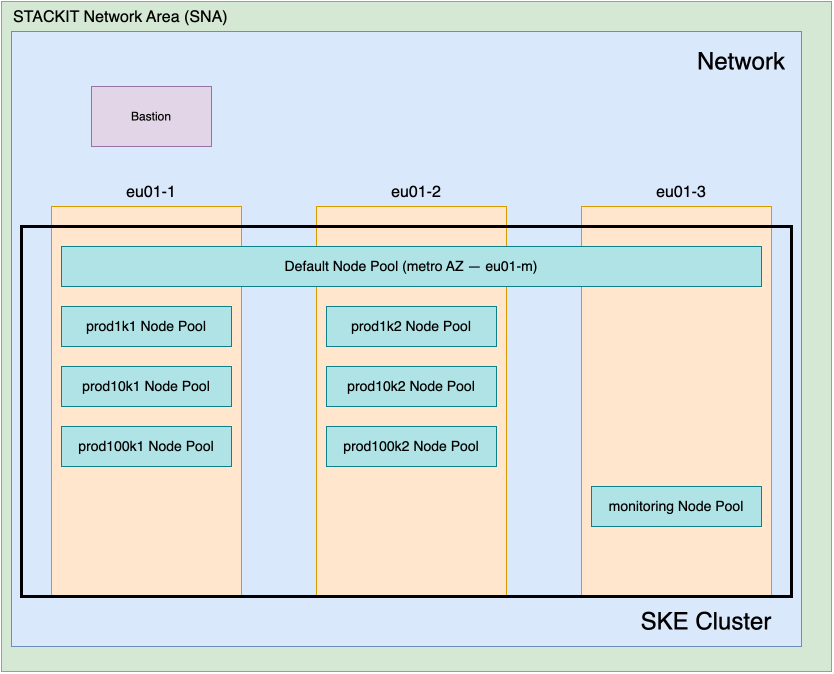
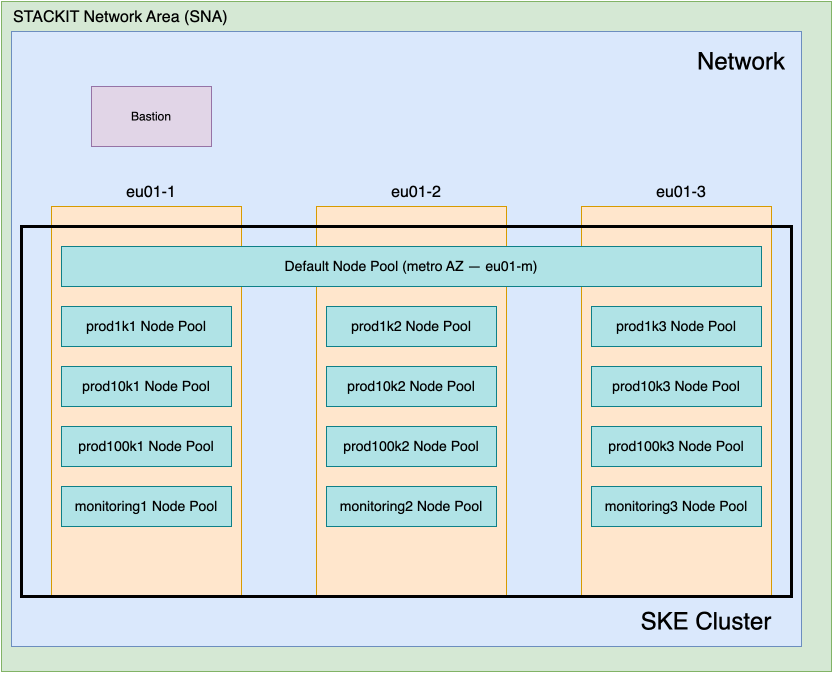
spread SKE broker and monitoring pools across all 3 discrete AZs

Changed region(s): [[0.6859, 0.4362, 0.9353, 0.7789], [0.3741, 0.7166, 0.6235, 0.7789], [0.0624, 0.7166, 0.2806, 0.7789]]

diff --git a/ske/README.md b/ske/README.md
@@ -37,14 +37,12 @@ Each SKE cluster lives in its own STACKIT project. The Terraform creates the pro
 
 STACKIT's `eu01` region has three discrete availability zones (`eu01-1`, `eu01-2`, `eu01-3`) plus a **metro** zone (`eu01-m`) that spans multiple physical zones. The reference architecture uses:
 * the metro zone for the system / default pool (STACKIT-managed system components benefit from cross-zone failover)
-* discrete zones for messaging pools (one pool per zone, enabling pod anti-affinity across zones for HA brokers)
-* one discrete zone (`eu01-3`) for the monitoring pool
+* the three discrete zones for messaging pools (one pool per zone per tier, enabling pod anti-affinity across zones for HA brokers)
+* the three discrete zones for monitoring pools (one pool per zone)
 
 #### Node Pools
 
-The cluster has the following node pools. Note: STACKIT does not expose a standalone node-pool resource — pools are defined inline on `stackit_ske_cluster.node_pools`. The reference architecture's `broker-node-pool` module is a config-factory: it produces node-pool config objects, which the top-level Terraform concatenates into the cluster's `node_pools` argument.
-
-All pools' nodes use a 50 GiB boot volume on the `storage_premium_perf2` performance class.
+The cluster has the following node pools. All pools' nodes use a 50 GiB boot volume on the `storage_premium_perf2` performance class.
 
 ##### Default (System)
 
@@ -52,18 +50,18 @@ The default node pool runs on the metro availability zone (`eu01-m`) so STACKIT 
 
 ##### Event Broker Services
 
-The cluster has 6 node pools for event broker services — two per tier, one in each of `eu01-1` and `eu01-2`. Locking each pool to a single AZ allows the cluster autoscaler to operate predictably and enables pod anti-affinity across zones for HA broker services.
+The cluster has a total of 12 node pools for event broker services. Instead of spanning multiple availability zones, there are 4 sets of 3 node pools with each locked to a single availability zone. These node pools are locked to one availability zone to allow the cluster autoscaler to work properly. We use pod anti-affinity against the node's zone label to ensure that each pod in a high-availability event broker service is in a separate availability zone.
 
 These node pools are engineered to support a 1:1 ratio of event broker service pod to worker node. We use labels and taints on each of these node pools to ensure that only event broker service pods are scheduled on the worker nodes for each scaling tier.
 
-The VM sizes, labels, and taints for each event broker service node pool are as follows (sized to meet Solace Cloud broker resource requirements on STACKIT):
+The VM sizes, labels, and taints for each event broker service node pool are as follows:
 
-| Name                 | VM size | AZ      | Labels                                          | Taints                                                            |
-|----------------------|---------|---------|-------------------------------------------------|-------------------------------------------------------------------|
-| prod1k1 / prod1k2    | `m2i.2` | -1 / -2 | nodeType:messaging<br>serviceClass:prod1k       | nodeType:messaging:NoExecute<br>serviceClass:prod1k:NoExecute     |
-| prod10k1 / prod10k2  | `m2i.4` | -1 / -2 | nodeType:messaging<br>serviceClass:prod10k      | nodeType:messaging:NoExecute<br>serviceClass:prod10k:NoExecute    |
-| prod100k1 / prod100k2| `m2i.8` | -1 / -2 | nodeType:messaging<br>serviceClass:prod100k     | nodeType:messaging:NoExecute<br>serviceClass:prod100k:NoExecute   |
-| monitoring           | `g3i.2` | -3      | nodeType:monitoring                             | nodeType:monitoring:NoExecute                                     |
+| Name       | VM size | Labels                                      | Taints                                                          |
+|------------|---------|---------------------------------------------|-----------------------------------------------------------------|
+| prod1k     | `m2i.2` | nodeType:messaging<br>serviceClass:prod1k   | nodeType:messaging:NoExecute<br>serviceClass:prod1k:NoExecute   |
+| prod10k    | `m2i.4` | nodeType:messaging<br>serviceClass:prod10k  | nodeType:messaging:NoExecute<br>serviceClass:prod10k:NoExecute  |
+| prod100k   | `m2i.8` | nodeType:messaging<br>serviceClass:prod100k | nodeType:messaging:NoExecute<br>serviceClass:prod100k:NoExecute |
+| monitoring | `g3i.2` | nodeType:monitoring                         | nodeType:monitoring:NoExecute                                   |
 
 ### Access <a name="ske-access"></a>
 
@@ -155,4 +153,4 @@ To use this Terraform module, the following is required:
 
 For Solace Cloud broker workloads, two STACKIT block-storage performance classes are recommended: `perf2` for the broker `data` volume and `perf6` for the broker `spool` volume.
 
-> StorageClass manifests for SKE are not yet included in [`kubernetes/`](kubernetes/). The exact provisioner + parameter shape needs validation against a live SKE cluster before publishing. Tracked as a follow-up.
+StorageClass manifests for SKE are not provided with this Terraform. Create them manually against the cluster using STACKIT's CSI driver and the recommended performance classes above.